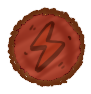
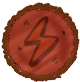
Bonnes icones pour les paragraphes

diff --git a/Assets/Scripts/Paper/DragDrop/SC_ParagraphType.cs b/Assets/Scripts/Paper/DragDrop/SC_ParagraphType.cs
@@ -8,10 +8,10 @@ public class SC_ParagraphType : MonoBehaviour
     public enum ParagraphType { Motivation, Clash, Orientation, WakeUp };
     public ParagraphType Type;
 
-    public Color OrientationColor;
-    public Color WakeupColor;
-    public Color MotivationColor;
-    public Color ClashColor;
+    public Sprite OrientationColor;
+    public Sprite WakeupColor;
+    public Sprite MotivationColor;
+    public Sprite ClashColor;
 
     public float multiplicativeScore;
 
@@ -23,19 +23,19 @@ public class SC_ParagraphType : MonoBehaviour
 
         if (Type == ParagraphType.Orientation)
         {
-            TypeIcon.color = new Color(0.1135636f, 0.6407289f, 0.8301887f,1);
+            TypeIcon.sprite = OrientationColor;
         }
         else if (Type == ParagraphType.WakeUp)
         {
-            TypeIcon.color = new Color(0.9245283f, 0.7347588f, 0.1962442f, 1);
+            TypeIcon.sprite = WakeupColor;
         }
         else if (Type == ParagraphType.Motivation)
         {
-            TypeIcon.color = new Color(0.9622642f, 0.4685875f, 0.2133321f, 1);
+            TypeIcon.sprite = MotivationColor;
         }
         else if (Type == ParagraphType.Clash)
         {
-            TypeIcon.color = new Color(0.8584906f, 0.2634961f, 0.1903257f, 1);
+            TypeIcon.sprite = ClashColor;
         }
     }
 }
